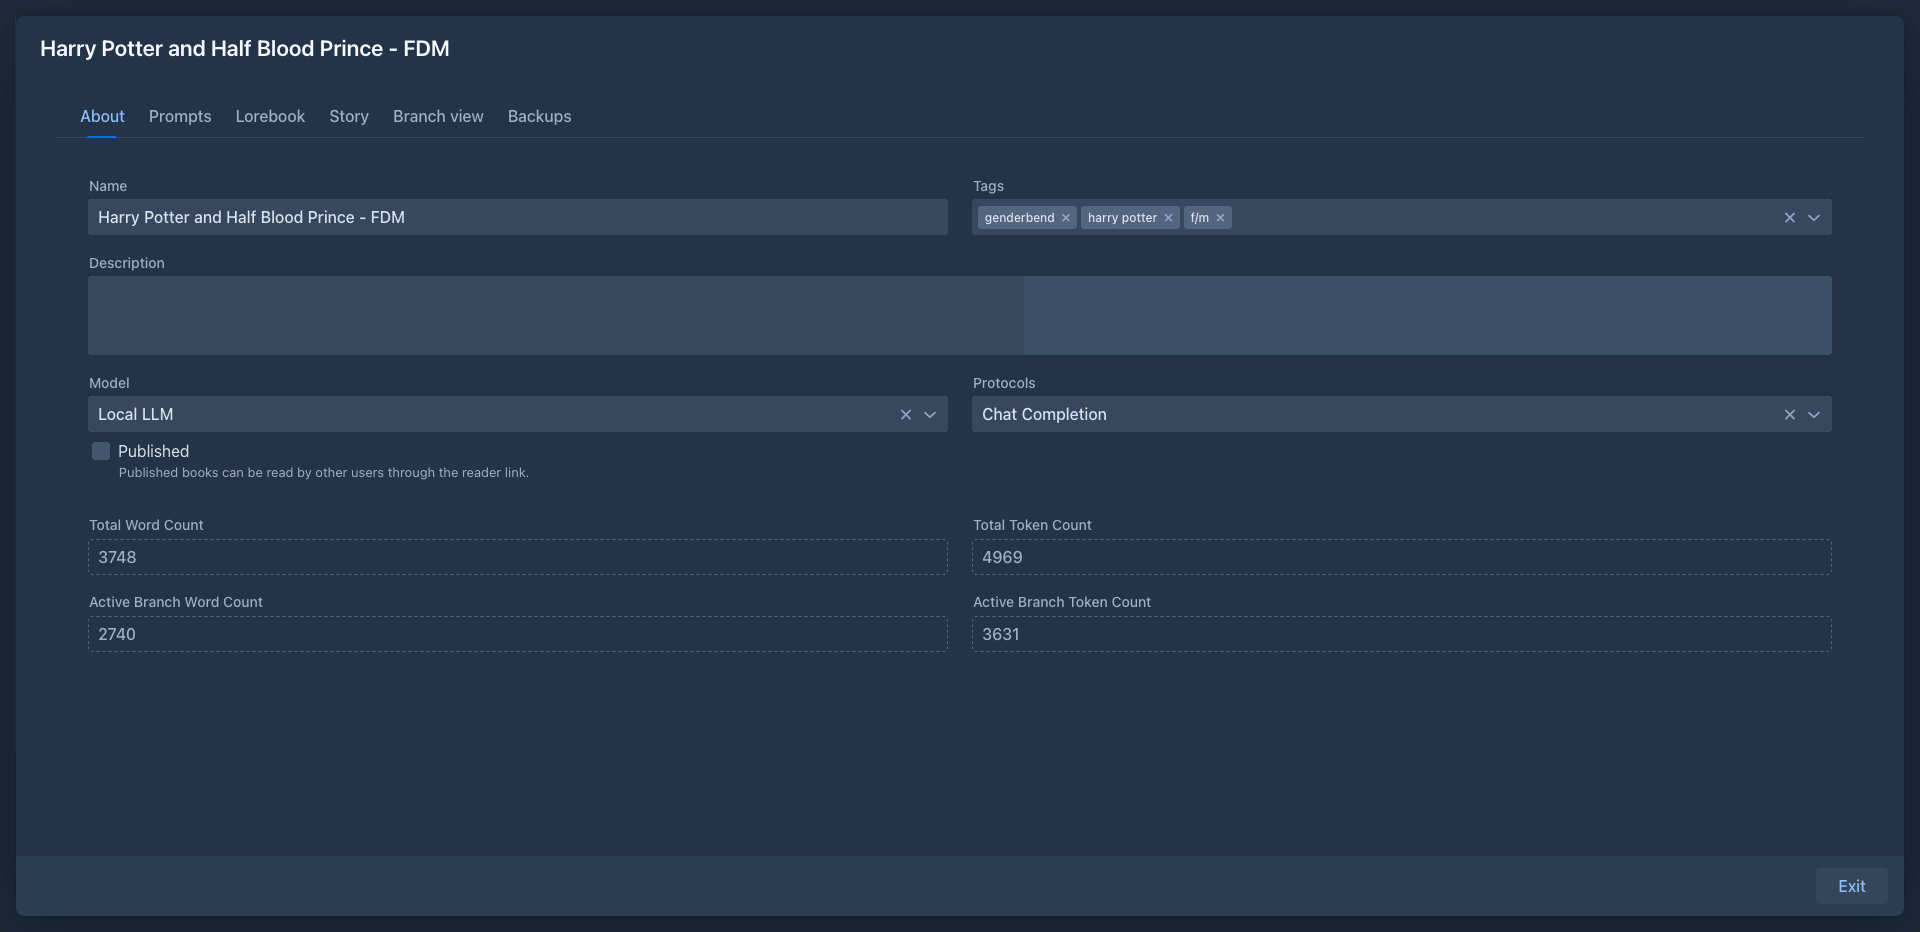
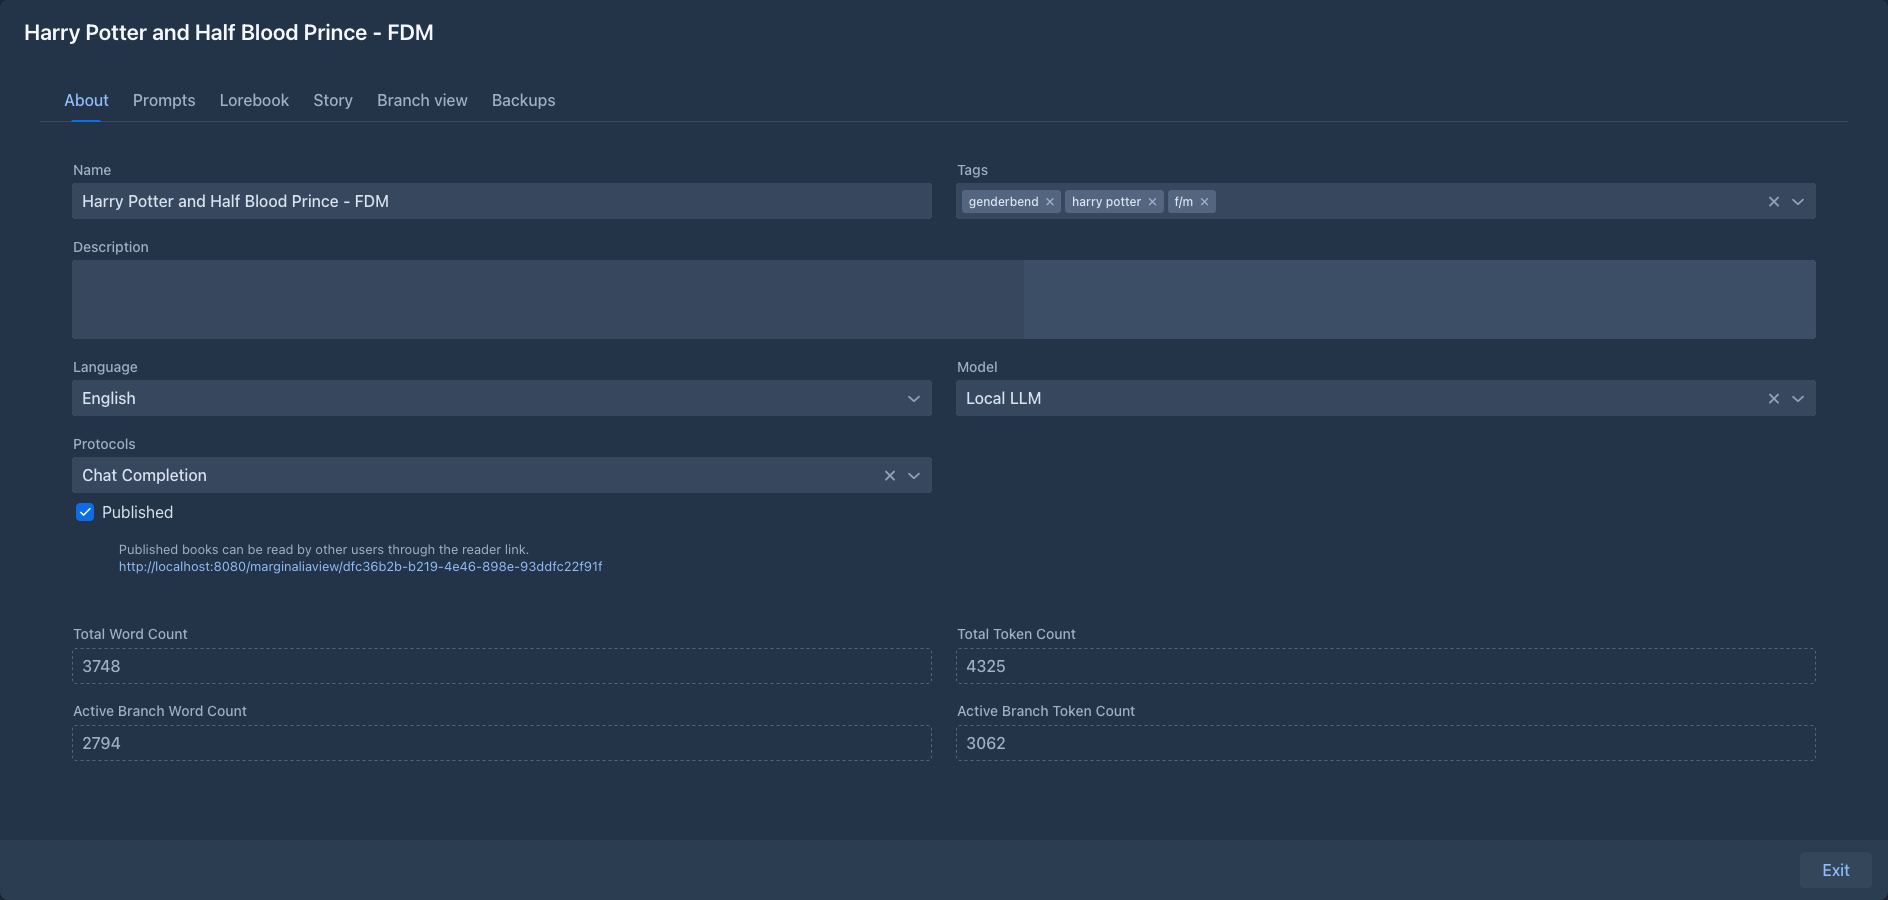
add multi-language support: enable language selection via UI, apply manuscript language for browser hyphenation, and enhance justification styles in manuscript viewer

diff --git a/marginalia/src/main/frontend/styles/shared-styles.css b/marginalia/src/main/frontend/styles/shared-styles.css
@@ -95,8 +95,17 @@ body {
 .manuscript-styles .chat-message-markdown p {
     margin-top: 0;
     margin-bottom: 0.85em;
-    text-align: left;
+    text-align: justify;
+    text-justify: inter-word;
     white-space: pre-wrap !important;
+    /* TeX-like hyphenation; dictionary comes from the lang attribute set from the book language */
+    hyphens: auto;
+    -webkit-hyphens: auto;
+    hyphenate-limit-chars: 6 3 3; /* min word length, min chars before/after the break */
+    hyphenate-limit-lines: 2;     /* at most 2 consecutive hyphenated lines */
+    hyphenate-limit-last: always; /* never hyphenate the last line of a column/page */
+    orphans: 2;
+    widows: 2;
 }
 
 /* Character Actions & Internal Monologue (* * or _ _) */

diff --git a/marginalia/src/main/java/com/github/enerccio/marginalia/domain/collections/Language.java b/marginalia/src/main/java/com/github/enerccio/marginalia/domain/collections/Language.java
@@ -1,0 +1,207 @@
+package com.github.enerccio.marginalia.domain.collections;
+
+/**
+ * ISO 639-1 languages a book can be written in. English is listed first, the rest follows code order.
+ */
+public enum Language {
+    ENGLISH("en", "English"),
+    AFAR("aa", "Afar"),
+    ABKHAZIAN("ab", "Abkhazian"),
+    AVESTAN("ae", "Avestan"),
+    AFRIKAANS("af", "Afrikaans"),
+    AKAN("ak", "Akan"),
+    AMHARIC("am", "Amharic"),
+    ARAGONESE("an", "Aragonese"),
+    ARABIC("ar", "Arabic"),
+    ASSAMESE("as", "Assamese"),
+    AVARIC("av", "Avaric"),
+    AYMARA("ay", "Aymara"),
+    AZERBAIJANI("az", "Azerbaijani"),
+    BASHKIR("ba", "Bashkir"),
+    BELARUSIAN("be", "Belarusian"),
+    BULGARIAN("bg", "Bulgarian"),
+    BISLAMA("bi", "Bislama"),
+    BAMBARA("bm", "Bambara"),
+    BENGALI("bn", "Bengali"),
+    TIBETAN("bo", "Tibetan"),
+    BRETON("br", "Breton"),
+    BOSNIAN("bs", "Bosnian"),
+    CATALAN("ca", "Catalan"),
+    CHECHEN("ce", "Chechen"),
+    CHAMORRO("ch", "Chamorro"),
+    CORSICAN("co", "Corsican"),
+    CREE("cr", "Cree"),
+    CZECH("cs", "Czech"),
+    CHURCH_SLAVIC("cu", "Church Slavic"),
+    CHUVASH("cv", "Chuvash"),
+    WELSH("cy", "Welsh"),
+    DANISH("da", "Danish"),
+    GERMAN("de", "German"),
+    DIVEHI("dv", "Divehi"),
+    DZONGKHA("dz", "Dzongkha"),
+    EWE("ee", "Ewe"),
+    GREEK("el", "Greek"),
+    ESPERANTO("eo", "Esperanto"),
+    SPANISH("es", "Spanish"),
+    ESTONIAN("et", "Estonian"),
+    BASQUE("eu", "Basque"),
+    PERSIAN("fa", "Persian"),
+    FULAH("ff", "Fulah"),
+    FINNISH("fi", "Finnish"),
+    FIJIAN("fj", "Fijian"),
+    FAROESE("fo", "Faroese"),
+    FRENCH("fr", "French"),
+    WESTERN_FRISIAN("fy", "Western Frisian"),
+    IRISH("ga", "Irish"),
+    GAELIC("gd", "Gaelic"),
+    GALICIAN("gl", "Galician"),
+    GUARANI("gn", "Guarani"),
+    GUJARATI("gu", "Gujarati"),
+    MANX("gv", "Manx"),
+    HAUSA("ha", "Hausa"),
+    HEBREW("he", "Hebrew"),
+    HINDI("hi", "Hindi"),
+    HIRI_MOTU("ho", "Hiri Motu"),
+    CROATIAN("hr", "Croatian"),
+    HAITIAN("ht", "Haitian"),
+    HUNGARIAN("hu", "Hungarian"),
+    ARMENIAN("hy", "Armenian"),
+    HERERO("hz", "Herero"),
+    INTERLINGUA("ia", "Interlingua"),
+    INDONESIAN("id", "Indonesian"),
+    INTERLINGUE("ie", "Interlingue"),
+    IGBO("ig", "Igbo"),
+    SICHUAN_YI("ii", "Sichuan Yi"),
+    INUPIAQ("ik", "Inupiaq"),
+    IDO("io", "Ido"),
+    ICELANDIC("is", "Icelandic"),
+    ITALIAN("it", "Italian"),
+    INUKTITUT("iu", "Inuktitut"),
+    JAPANESE("ja", "Japanese"),
+    JAVANESE("jv", "Javanese"),
+    GEORGIAN("ka", "Georgian"),
+    KONGO("kg", "Kongo"),
+    KIKUYU("ki", "Kikuyu"),
+    KUANYAMA("kj", "Kuanyama"),
+    KAZAKH("kk", "Kazakh"),
+    KALAALLISUT("kl", "Kalaallisut"),
+    CENTRAL_KHMER("km", "Central Khmer"),
+    KANNADA("kn", "Kannada"),
+    KOREAN("ko", "Korean"),
+    KANURI("kr", "Kanuri"),
+    KASHMIRI("ks", "Kashmiri"),
+    KURDISH("ku", "Kurdish"),
+    KOMI("kv", "Komi"),
+    CORNISH("kw", "Cornish"),
+    KIRGHIZ("ky", "Kirghiz"),
+    LATIN("la", "Latin"),
+    LUXEMBOURGISH("lb", "Luxembourgish"),
+    GANDA("lg", "Ganda"),
+    LIMBURGAN("li", "Limburgan"),
+    LINGALA("ln", "Lingala"),
+    LAO("lo", "Lao"),
+    LITHUANIAN("lt", "Lithuanian"),
+    LUBA_KATANGA("lu", "Luba-Katanga"),
+    LATVIAN("lv", "Latvian"),
+    MALAGASY("mg", "Malagasy"),
+    MARSHALLESE("mh", "Marshallese"),
+    MAORI("mi", "Maori"),
+    MACEDONIAN("mk", "Macedonian"),
+    MALAYALAM("ml", "Malayalam"),
+    MONGOLIAN("mn", "Mongolian"),
+    MARATHI("mr", "Marathi"),
+    MALAY("ms", "Malay"),
+    MALTESE("mt", "Maltese"),
+    BURMESE("my", "Burmese"),
+    NAURU("na", "Nauru"),
+    BOKMAL_NORWEGIAN("nb", "Bokmål, Norwegian"),
+    NDEBELE_NORTH("nd", "Ndebele, North"),
+    NEPALI("ne", "Nepali"),
+    NDONGA("ng", "Ndonga"),
+    DUTCH("nl", "Dutch"),
+    NORWEGIAN_NYNORSK("nn", "Norwegian Nynorsk"),
+    NORWEGIAN("no", "Norwegian"),
+    NDEBELE_SOUTH("nr", "Ndebele, South"),
+    NAVAJO("nv", "Navajo"),
+    CHICHEWA("ny", "Chichewa"),
+    OCCITAN("oc", "Occitan"),
+    OJIBWA("oj", "Ojibwa"),
+    OROMO("om", "Oromo"),
+    ORIYA("or", "Oriya"),
+    OSSETIAN("os", "Ossetian"),
+    PANJABI("pa", "Panjabi"),
+    PALI("pi", "Pali"),
+    POLISH("pl", "Polish"),
+    PUSHTO("ps", "Pushto"),
+    PORTUGUESE("pt", "Portuguese"),
+    QUECHUA("qu", "Quechua"),
+    ROMANSH("rm", "Romansh"),
+    RUNDI("rn", "Rundi"),
+    ROMANIAN("ro", "Romanian"),
+    RUSSIAN("ru", "Russian"),
+    KINYARWANDA("rw", "Kinyarwanda"),
+    SANSKRIT("sa", "Sanskrit"),
+    SARDINIAN("sc", "Sardinian"),
+    SINDHI("sd", "Sindhi"),
+    NORTHERN_SAMI("se", "Northern Sami"),
+    SANGO("sg", "Sango"),
+    SINHALA("si", "Sinhala"),
+    SLOVAK("sk", "Slovak"),
+    SLOVENIAN("sl", "Slovenian"),
+    SAMOAN("sm", "Samoan"),
+    SHONA("sn", "Shona"),
+    SOMALI("so", "Somali"),
+    ALBANIAN("sq", "Albanian"),
+    SERBIAN("sr", "Serbian"),
+    SWATI("ss", "Swati"),
+    SOTHO_SOUTHERN("st", "Sotho, Southern"),
+    SUNDANESE("su", "Sundanese"),
+    SWEDISH("sv", "Swedish"),
+    SWAHILI("sw", "Swahili"),
+    TAMIL("ta", "Tamil"),
+    TELUGU("te", "Telugu"),
+    TAJIK("tg", "Tajik"),
+    THAI("th", "Thai"),
+    TIGRINYA("ti", "Tigrinya"),
+    TURKMEN("tk", "Turkmen"),
+    TAGALOG("tl", "Tagalog"),
+    TSWANA("tn", "Tswana"),
+    TONGA("to", "Tonga"),
+    TURKISH("tr", "Turkish"),
+    TSONGA("ts", "Tsonga"),
+    TATAR("tt", "Tatar"),
+    TWI("tw", "Twi"),
+    TAHITIAN("ty", "Tahitian"),
+    UIGHUR("ug", "Uighur"),
+    UKRAINIAN("uk", "Ukrainian"),
+    URDU("ur", "Urdu"),
+    UZBEK("uz", "Uzbek"),
+    VENDA("ve", "Venda"),
+    VIETNAMESE("vi", "Vietnamese"),
+    VOLAPUK("vo", "Volapük"),
+    WALLOON("wa", "Walloon"),
+    WOLOF("wo", "Wolof"),
+    XHOSA("xh", "Xhosa"),
+    YIDDISH("yi", "Yiddish"),
+    YORUBA("yo", "Yoruba"),
+    ZHUANG("za", "Zhuang"),
+    CHINESE("zh", "Chinese"),
+    ZULU("zu", "Zulu");
+
+    private final String code;
+    private final String displayName;
+
+    Language(String code, String displayName) {
+        this.code = code;
+        this.displayName = displayName;
+    }
+
+    /** ISO 639-1 code, usable as an HTML {@code lang} attribute. */
+    public String getCode() {
+        return code;
+    }
+
+    public String getDisplayName() {
+        return displayName;
+    }
+}

diff --git a/marginalia/src/main/java/com/github/enerccio/marginalia/ui/dialogs/manuscript/ManuscriptInfoPart.java b/marginalia/src/main/java/com/github/enerccio/marginalia/ui/dialogs/manuscript/ManuscriptInfoPart.java
@@ -1,5 +1,6 @@
 package com.github.enerccio.marginalia.ui.dialogs.manuscript;
 
+import com.github.enerccio.marginalia.domain.collections.Language;
 import com.github.enerccio.marginalia.domain.model.impl.AI;
 import com.github.enerccio.marginalia.domain.model.impl.Manuscript;
 import com.github.enerccio.marginalia.domain.model.impl.Protocol;
@@ -58,6 +59,7 @@ public class ManuscriptInfoPart implements ManuscriptDialogPart {
     private TextField nameField;
     private TagMultiComboBox tags;
     private TextArea descriptionField;
+    private ComboBox<Language> languageCombo;
     private ComboBox<AI> aiCombo;
     private ComboBox<Protocol> protocolCombo;
     private Checkbox publishedCheckbox;
@@ -86,7 +88,7 @@ public class ManuscriptInfoPart implements ManuscriptDialogPart {
         formLayout.setWidthFull();
         formLayout.add(nameField, tags, descriptionField);
         formLayout.setColspan(descriptionField, 2);
-        formLayout.add(aiCombo, protocolCombo, publishedCheckbox);
+        formLayout.add(languageCombo, aiCombo, protocolCombo, publishedCheckbox);
         formLayout.setColspan(publishedCheckbox, 2);
 
         FormLayout syntheticFormLayout = new FormLayout();
@@ -121,6 +123,17 @@ public class ManuscriptInfoPart implements ManuscriptDialogPart {
         descriptionField.setWidthFull();
         descriptionField.setMinHeight("100px");
         descriptionField.addValueChangeListener(e -> {
+            if (e.isFromClient()) {
+                autosave();
+            }
+        });
+
+        languageCombo = new ComboBox<>(loc.getValue(L.LABEL_LANGUAGE));
+        languageCombo.setWidthFull();
+        languageCombo.setItems(Language.values());
+        languageCombo.setItemLabelGenerator(Language::getDisplayName);
+        languageCombo.setAllowCustomValue(false);
+        languageCombo.addValueChangeListener(e -> {
             if (e.isFromClient()) {
                 autosave();
             }
@@ -205,6 +218,7 @@ public class ManuscriptInfoPart implements ManuscriptDialogPart {
             if (StringUtils.isNotBlank(nameField.getValue()))
                 manuscript.setName(nameField.getValue());
             manuscript.setDescription(descriptionField.getValue());
+            manuscript.setLanguage(languageCombo.getValue() != null ? languageCombo.getValue() : Language.ENGLISH);
             manuscript.setAi(aiCombo.getValue());
             manuscript.setProtocol(protocolCombo.getValue());
             manuscript.setPublished(Boolean.TRUE.equals(publishedCheckbox.getValue()));
@@ -258,6 +272,7 @@ public class ManuscriptInfoPart implements ManuscriptDialogPart {
             nameField.setValue(StringUtils.defaultString(manuscript.getName()));
             publishedCheckbox.setValue(manuscript.isPublished());
             descriptionField.setValue(StringUtils.defaultString(manuscript.getDescription()));
+            languageCombo.setValue(manuscript.getLanguage());
             aiCombo.setValue(manuscript.getAi());
             protocolCombo.setValue(manuscript.getProtocol());
             tags.setForEntity(manuscript);

diff --git a/marginalia/src/main/java/com/github/enerccio/marginalia/ui/dialogs/manuscript/ManuscriptStoryPart.java b/marginalia/src/main/java/com/github/enerccio/marginalia/ui/dialogs/manuscript/ManuscriptStoryPart.java
@@ -289,11 +289,17 @@ public class ManuscriptStoryPart implements ManuscriptDialogPart {
 
     private void applyBookStyles() throws Exception {
         Manuscript manuscript = parent.refreshManuscript();
+        applyLanguage(manuscript);
         if (manuscript.getShowBookStyles()) {
             mainLayout.addClassName(SharedStyles.MARKDOWN_MANUSCRIPT_STYLES);
         } else {
             mainLayout.removeClassName(SharedStyles.MARKDOWN_MANUSCRIPT_STYLES);
         }
+    }
+
+    // lang drives the browser's hyphenation dictionary (see hyphens in shared-styles.css)
+    private void applyLanguage(Manuscript manuscript) {
+        mainLayout.getElement().setAttribute("lang", manuscript.getLanguage().getCode());
     }
 
     private Popover buildNewTurnPopover(Button targetButton) {
@@ -866,6 +872,9 @@ public class ManuscriptStoryPart implements ManuscriptDialogPart {
     @Override
     public void load(Manuscript manuscript) {
         this.currentManuscript = manuscript;
+        if (manuscript != null && mainLayout != null) {
+            applyLanguage(manuscript);
+        }
         renderStoryContent();
     }
 

diff --git a/marginalia/src/main/java/com/github/enerccio/marginalia/domain/model/impl/Manuscript.java b/marginalia/src/main/java/com/github/enerccio/marginalia/domain/model/impl/Manuscript.java
@@ -1,5 +1,6 @@
 package com.github.enerccio.marginalia.domain.model.impl;
 
+import com.github.enerccio.marginalia.domain.collections.Language;
 import com.github.enerccio.marginalia.domain.model.ExtendableEntity;
 import com.github.enerccio.marginalia.domain.service.BackupService.BackupStrategy;
 import com.github.enerccio.marginalia.domain.traits.ExtendedAttribute;
@@ -35,6 +36,10 @@ public class Manuscript extends ExtendableEntity {
     @SuppressWarnings("deprecation")
     @Temporal(TemporalType.TIMESTAMP)
     private Date lastOpened;
+
+    @ExtendedAttribute
+    @Transient
+    private Language language;
 
     @ExtendedAttribute
     @Transient
@@ -106,6 +111,14 @@ public class Manuscript extends ExtendableEntity {
 
     public void setProtocol(Protocol protocol) {
         this.protocol = protocol;
+    }
+
+    public Language getLanguage() {
+        return language != null ? language : Language.ENGLISH;
+    }
+
+    public void setLanguage(Language language) {
+        this.language = language;
     }
 
     public String getTemplate() {

diff --git a/marginalia/src/main/java/com/github/enerccio/marginalia/ui/main/Viewer.java b/marginalia/src/main/java/com/github/enerccio/marginalia/ui/main/Viewer.java
@@ -342,6 +342,8 @@ public class Viewer extends LoginCheckRoute implements HasUrlParameter<String> {
 
         // Always apply reading style
         container.addClassName(SharedStyles.MARKDOWN_MANUSCRIPT_STYLES);
+        // lang drives the browser's hyphenation dictionary (see hyphens in shared-styles.css)
+        container.getElement().setAttribute("lang", manuscript.getLanguage().getCode());
 
         UI.getCurrent().getPage().executeJs("""
                 if (!document.getElementById('marginalia-markdown-fix-style')) {

diff --git a/marginalia/src/main/java/com/github/enerccio/marginalia/loc/LocalizationEN.java b/marginalia/src/main/java/com/github/enerccio/marginalia/loc/LocalizationEN.java
@@ -227,6 +227,7 @@ public class LocalizationEN extends LocalizationBase {
         setValue(L.LABEL_CLEAR_PASSWORD, "Clear password");
         setValue(L.LABEL_DISCARD_CHANGES, "Discard Changes");
         setValue(L.LABEL_UNLOCK_ACCOUNT, "Unlock account (too many failed logins)");
+        setValue(L.LABEL_LANGUAGE, "Language");
 
         // --- ENUM ---
         setValue(L.ENUM_AI_TYPE_OPEN_AI_COMPATIBLE, "OpenAI Compatible");

diff --git a/marginalia/src/main/java/com/github/enerccio/marginalia/loc/L.java b/marginalia/src/main/java/com/github/enerccio/marginalia/loc/L.java
@@ -221,6 +221,7 @@ public enum L {
     LABEL_CLEAR_PASSWORD,
     LABEL_DISCARD_CHANGES,
     LABEL_UNLOCK_ACCOUNT,
+    LABEL_LANGUAGE,
 
     // --- ENUM ---
     ENUM_AI_TYPE_OPEN_AI_COMPATIBLE,
